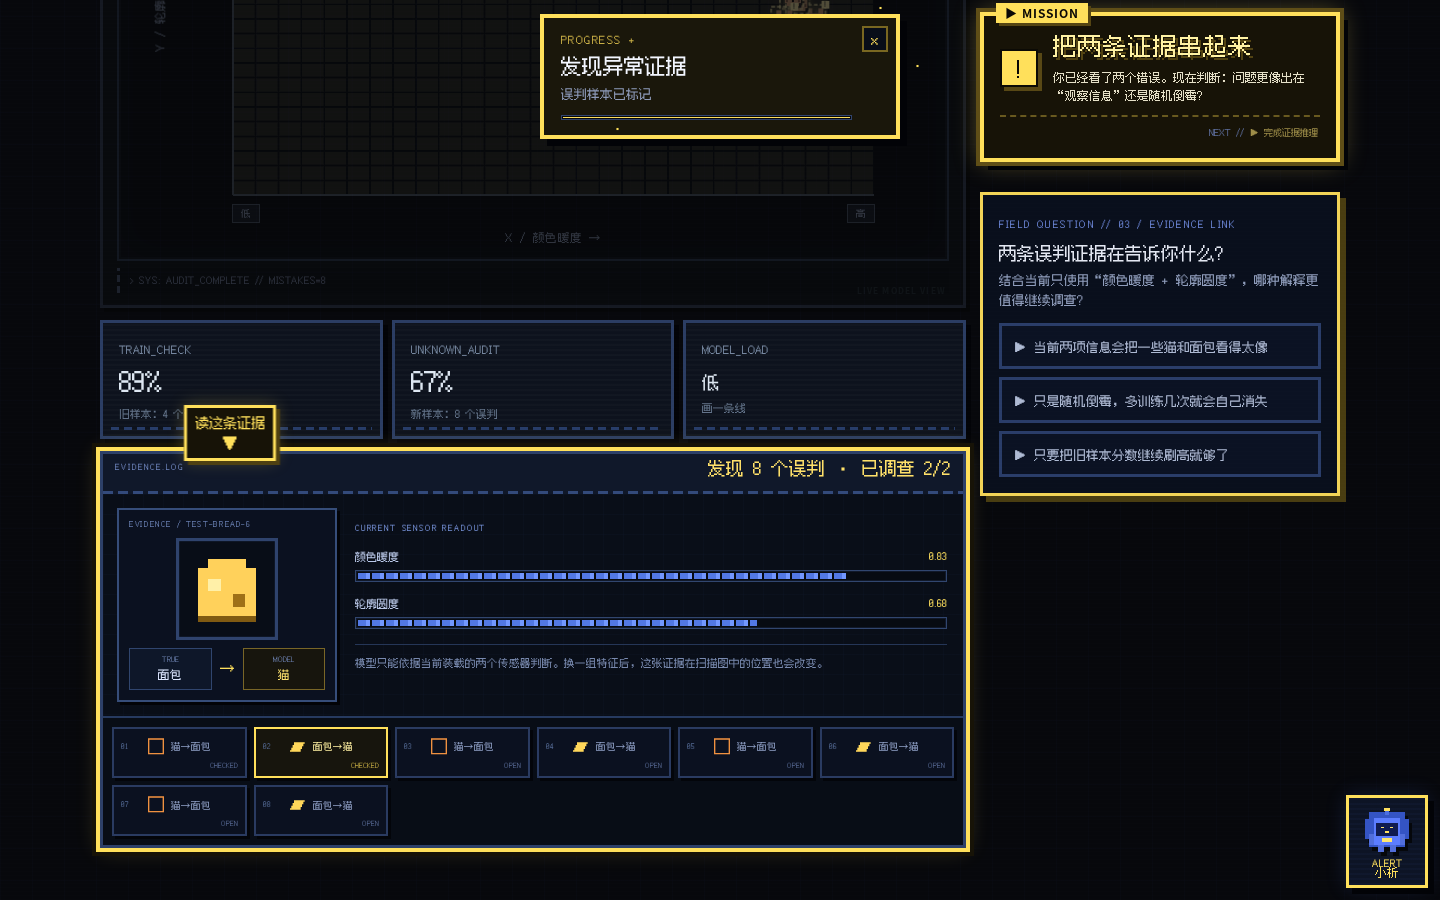
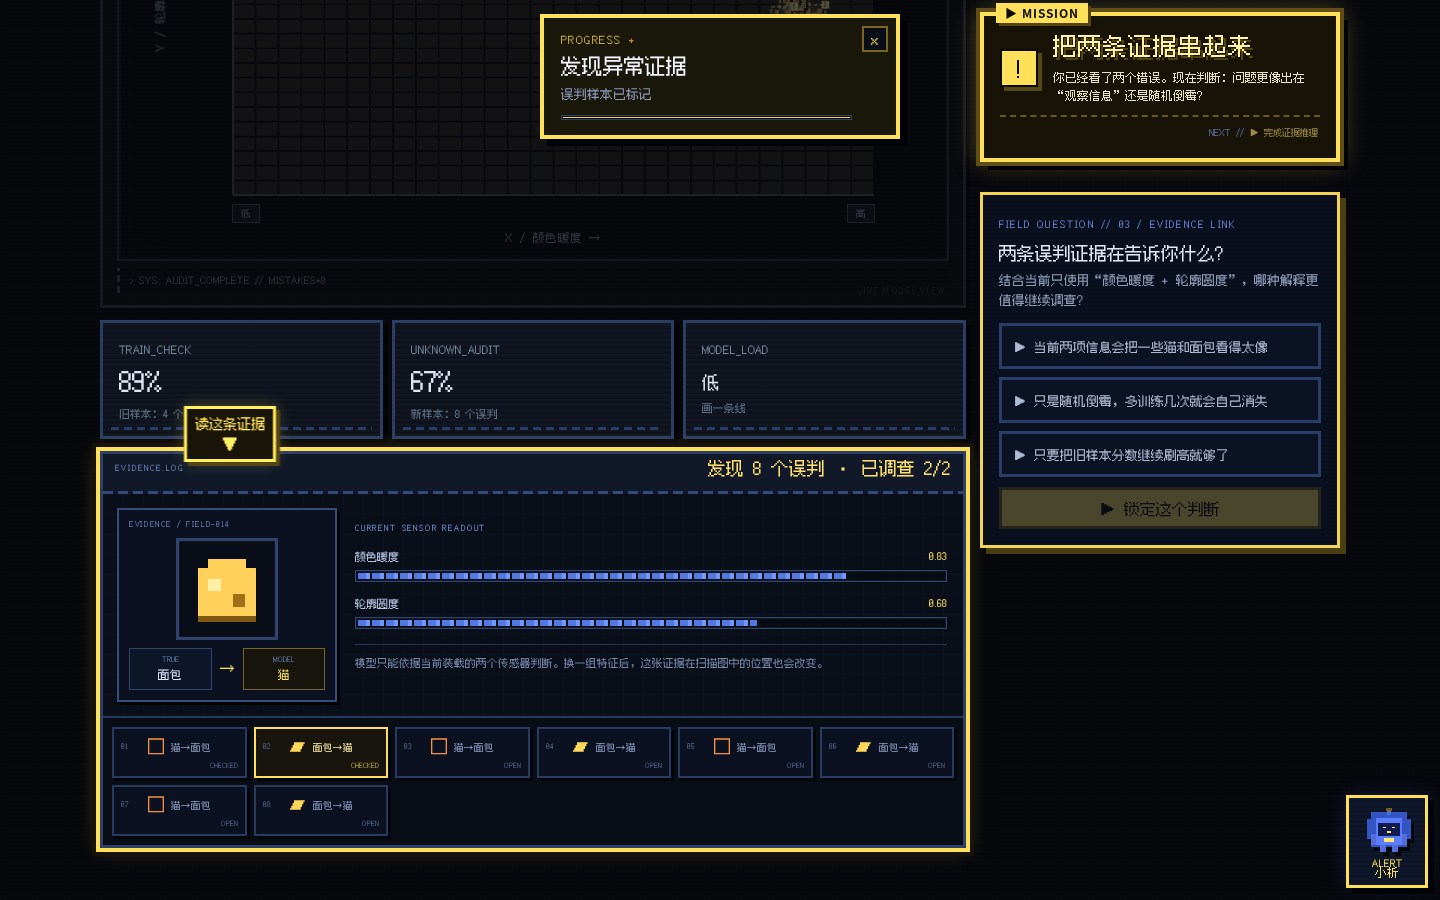
docs: document story and endless investigation modes

diff --git a/docs/VALIDATION.md b/docs/VALIDATION.md
@@ -18,9 +18,9 @@ npm run test:e2e
 
 - ESLint：通过，0 warning / 0 error。
 - TypeScript strict typecheck：通过。
-- Vitest：4 个测试文件、20 个测试全部通过。
+- Vitest：7 个测试文件、28 个测试全部通过。
 - Vite production build：通过。
-- Playwright：2 条 Chromium E2E 通过（零基础玩家完整案件 + debug 工程模式）。
+- Playwright：5 条 Chromium E2E 通过（剧情完整案件、debug 工程模式、无尽证据路线、额度耗尽恢复路线、类别不平衡路线）。
 - GitHub Actions CI：通过；GitHub runner 已真实执行 lint、typecheck、unit tests、build、Chromium E2E。
 
 ## 固定 seed 教学指标
@@ -48,7 +48,7 @@ Vitest 当前覆盖：
 
 - 固定 seed 数据可复现。
 - train / test split 严格分离。
-- 普通模式不暴露隐藏测试标签。
+- 普通模式不暴露隐藏测试标签；public test 同时移除 flags，并使用 `field-001...` 中性 ID，避免从 DOM / DevTools 语义 ID 猜类别。
 - 线性分类器、深度 2 决策树、KNN k=1 / k=5 的真实计算。
 - 决策边界网格确定性。
 - 初始训练捷径在未知样本上真实失败。
@@ -58,29 +58,40 @@ Vitest 当前覆盖：
 - 普通模式拒绝 debug 跳关。
 - 六类开发者测试人格均在有限步骤内完成关卡，并经历过拟合与多次未知审计。
 - 教学任务、NPC 提示、模型 / 特征说明保持短文本约束。
+- 调查评级：错误上线、推理修正、预测偏差、额外审计和提示会降低评级；S 只保留给干净证据路线。
+- 无尽生成器：确定性、四类 syndrome、传感器通道重排、可解性与随机配置成功比例。
+- 类别不平衡：存在总体 Accuracy ≥90% 但最低类别 recall <75% 的真实假好方案，同时存在可靠解。
+- 自动玩法平衡：批量 seed 上 evidence-policy 必须显著优于 5 次 random-clicker。
 
 ## Playwright 浏览器 E2E
 
-`e2e/happy-path.spec.ts` 当前包含两条真实 Chromium 路线。
+`e2e/happy-path.spec.ts` 当前包含五条真实 Chromium 路线。
 
 零基础玩家完整案件：
 
 1. 标题页点击“查看事故录像”。
 2. Cold Open 中亲手确认“这明明是一只猫”，看到 `CAT ≠ BREAD`，再接入调查终端。
-3. 在旧样本上完成一次肉眼分布判断。
+3. 在旧样本上完成一次肉眼分布判断，并直接在散点图里点出一个真实异常旧样本。
 4. 分别读取当前“颜色暖度 / 轮廓圆度”两个观察通道；此时完整特征工具箱仍隐藏。
 5. 亲手点击唯一开放的直线分类器并训练。
-6. 第一次成功后先留下“是否真的修好”的预测。
-7. 放入此前未参与训练的未知样本并看到真实失败。
-8. 调查两个不同黄色 `!`，读取 `EVIDENCE.LOG`，完成一次证据推理。
-9. 进入修复，故意装载 KNN k=1，训练并审计，触发真实训练 100% / 未知表现下降。
-10. 玩家先解释反常现象，之后才显示“过拟合 / Overfitting”。
-11. 返回修复时确认 PHASE 03 不重复播放，并读取新解锁的“表面纹理 / 长宽比例”两个备用观察通道。
-12. 重新开放完整特征 / 模型配置，切换到稳健特征 + 直线模型并重新训练 / 审计。
-13. 对照 `CASE_NOTES.LOG` 完成最终“为什么这次更可信”的判断。
-14. 回答迁移问题并进入 `CASE CLOSED`。
+6. 第一次训练后先读一个没有真值的 `PROBE ?`，只根据决策区域判断“模型会说什么”。
+7. 再锁定“89% 是否足以批准上线”的现实预测；E2E 故意选择错误的 89% 结论，验证游戏不会即时红叉，而会产生“临时放行 → 现场误判”的后果。
+8. 放入此前未参与训练的未知样本并看到真实失败。
+9. 调查两个不同黄色 `!`，读取 `EVIDENCE.LOG`，锁定一次证据推理。
+10. 进入修复，先留下实验预测，再故意装载 KNN k=1，训练并消耗正式审计额度，触发真实训练 100% / 未知表现下降。
+11. 从可点击 `CASE_NOTES.LOG` 中亲手指出反常实验，之后才解释原因并显示“过拟合 / Overfitting”。
+12. 返回修复时确认 PHASE 03 不重复播放，并读取新解锁的备用观察通道。
+13. 重新开放完整特征 / 模型配置；改方案后必须重新留下实验预测，再训练 / 审计。
+14. 对照 `CASE_NOTES.LOG` 完成最终“为什么这次更可信”的判断。
+15. 迁移问题同样采用“草稿 → 锁定 → 反馈”，避免通过提交按钮亮灭探答案；随后进入 `CASE CLOSED` 并显示调查评级。
 
 工程模式路线会直接打开 `?debug=1`，验证 DebugPanel、阶段跳转和快速主操作仍可用，不受普通玩家 micro-beat 门槛影响。
+
+无尽证据路线用程序化案件验证：5 次正式审计预算、先预测再审计、错误诊断后不能立刻轮流试答案、必须新增一次审计才可改口、正确诊断后生成下一案。
+
+额度恢复路线会连续耗尽 5 次正式未知审计，确认额外审计入口出现、恢复 1 次可执行额度，并且这类补救会进入结案评级扣分；有限预算因此制造决策成本，但不会造成不可恢复死局。
+
+类别不平衡路线验证：一个方案可达到约 90%+ 总体准确率，但少数类召回只有约 50%，UI 必须明确拒绝“可靠”结案；换到稳健方案后两类召回恢复，再提交 `class-imbalance` 诊断。
 
 E2E 使用 Playwright 的真实可操作性检查；如果 overlay、NPC、tooltip 或 SVG 层拦截点击，测试会直接失败。
 
@@ -88,6 +99,19 @@ E2E 使用 Playwright 的真实可操作性检查；如果 overlay、NPC、toolt
 
 - SVG 决策背景可能抢走误判样本点击；现已让背景层不接收 pointer event，并给误判标记增加 26×26 点击热区。较大的 36×36 热区在密集区域会互相抢点击，因此真实 E2E 后进一步缩小。
 - 1440×900 下折叠小析仍可能轻微覆盖模型工具盒；现已进一步贴右侧安全区，E2E 明确断言二者不重叠。
+
+## 自动玩法平衡
+
+无尽模式不是只测试“有没有解”，还测试“思考是否真的有收益”。当前批量基线使用 90 个程序化 seed，每个案件运行 24 次 5-audit random-clicker：
+
+- evidence-policy 结案率约 **98.9%**；
+- random-clicker 结案率约 **15.7%**；
+- evidence-policy 平均最佳未知表现约 **99.0%**；
+- random-clicker 平均最佳未知表现约 **88.5%**。
+
+Evidence policy 只读取玩家同样可见的训练标签几何与**无标签**现场分布变化，不读取隐藏 syndrome/test label。测试硬门槛要求 evidence solve rate ≥90%、random solve rate <30%、二者结案率差 >60 个百分点，并要求未知表现存在显著差距。
+
+这些指标不是“游戏一定好玩”的证明，只是防止程序化案件退化成“随便试五次和推理差不多”。
 
 ## Headless Chromium 人工视觉路线
 
@@ -116,7 +140,9 @@ Windows 真机截图仍作为最终美术判断基准；headless Chromium 主要
 
 - `hero.png`：Cold Open 中小析正式给出案件目标。
 - `misclassification.png`：两条未知误判证据与现场推理。
-- `demo.gif`：标题 → 事故录像 → 案件目标 → 旧样本观察 → 第一次成功 → 两条证据 → 过拟合 → 备用传感器 → 最终修复的短演示。
+- `endless.png`：监督学习无尽模式的首次正式审计。
+- `imbalance.png`：总体高分但少数类召回失败的类别不平衡陷阱。
+- `demo.gif`：标题 → 事故录像 → 案件目标 → 旧样本观察 → 决策探针 → 两条证据 → 过拟合 → 备用传感器 → 最终修复的短演示。
 
 素材不是设计稿或伪造界面，均来自当前 V1 的真实运行状态。
 
@@ -132,7 +158,7 @@ Windows 真机截图仍作为最终美术判断基准；headless Chromium 主要
 6. 安装 Chromium
 7. `npm run test:e2e`
 
-2026-08-09 对沉浸式第一关提交 `88153b3` 的 GitHub Actions 运行结果为 `success`，上述步骤全部通过；同一提交的 `Deploy Pages` 也为 `success`。
+本轮证据驱动剧情与无尽模式的本地完整验证已通过；最终提交 push 后会再次以 GitHub Actions / Pages 和生产 URL E2E 作为发布验收，不用本地结果代替远端结果。
 
 ## GitHub Pages 部署状态
 
@@ -176,7 +202,8 @@ Windows 真机截图仍作为最终美术判断基准；headless Chromium 主要
 
 ## 尚未覆盖的风险
 
-- 已获得至少一轮真实零基础新生定性反馈，并据此重做第一分钟与交互可发现性；尚未完成 5～8 人规模的系统可用性测试。
+- 已获得至少一轮真实零基础新生定性反馈，并据此重做第一分钟、交互可发现性与核心实验循环；尚未完成 5～8 人规模的系统可用性测试。
+- **剧情模式 20～30 分钟仍只是设计目标。** 当前没有足够真人计时数据证明已经达到；自动 E2E 会快速操作，不能用于估算真实游玩时间。
 - Playwright 当前只覆盖 Chromium + 桌面 viewport，不做浏览器 matrix。
 - 没有建立大规模视觉 snapshot 回归；视觉仍以真实截图人工检查为主。
 - GitHub Pages 已上线；当前没有针对 CDN 缓存传播延迟的专项测试。

diff --git a/docs/PRODUCT_DESIGN.md b/docs/PRODUCT_DESIGN.md
@@ -1,7 +1,7 @@
 # 《AI异常调查局：失控的分类器》产品设计
 
 ## 一句话定位
-一款让零基础大学新生通过“调查橘猫被识别成面包”的事故，在约 20～30 分钟的首次认真游玩中亲手经历数据、特征、模型、测试集与过拟合的浏览器机器学习入门游戏。
+一款让零基础大学新生通过“调查橘猫被识别成面包”的事故，亲手经历数据、特征、模型、测试集与过拟合的浏览器机器学习调查游戏。**20～30 分钟是当前剧情模式的设计目标，不是已经由真人计时验证的结果。**
 
 ## 玩家画像
 - 大一新生；可能完全没学过机器学习、线性代数、概率论和 Python。
@@ -26,8 +26,10 @@
 ### 阶段 1：第一次成功（约 5～7 分钟）
 - 身份：现场调查员 → 传感器调查员 → 模型工程师。
 - 工作台采用 progressive disclosure：还没用到的模型、特征工具直接隐藏，而不是全部同时变灰摆在屏幕上。
-- 玩家先肉眼判断旧样本是否形成两团，再分别读取“颜色暖度 / 轮廓圆度”两个当前观察通道，理解机器人并没有像人一样直接看懂图片。
-- 玩家亲手装载唯一开放的直线分类器并训练；训练表现高后，必须先留下“它是否真的修好”的预测，之后才开放未知样本验证。
+- 玩家先肉眼判断旧样本是否形成两团，随后必须直接在散点图上抓出一个“站进对面阵营”的异常旧样本；散点图是可操作棋盘而不是背景图。
+- 分别读取“颜色暖度 / 轮廓圆度”两个当前观察通道，理解机器人并没有像人一样直接看懂图片。
+- 玩家亲手装载唯一开放的直线分类器并训练；训练后先读取一个没有真值的 `PROBE ?`，判断模型会把它放到哪一侧，明确“模型会说什么”与“真实答案是什么”不是同一问题。
+- 之后才留下“它是否真的修好”的现实预测，再开放未知样本验证。
 - 此时仍不提前解释训练集、测试集、泛化、过拟合等术语。
 
 ### 阶段 2：意外失败（约 6～8 分钟）
@@ -35,6 +37,7 @@
 - 首次揭示一批此前不可见的未知样本；其中包含不同光照下橘猫和长条面包。
 - 玩家看到训练表现仍高，但未知数据错误明显增多。
 - 玩家必须调查两个不同误判样本，再回答“它们共同暴露了什么”，形成最小证据链，而不是点一下就过关。
+- 如果玩家在第一次训练后选择“89% 已经证明修好了”，游戏不会立刻弹红叉，而会真的记录一次临时放行，并用后续现场误判把错误理论变成案件证据。
 - 小析随后命名此前看到的是“训练集”、新样本是“测试集”；玩家先通过证据意识到当前观察信息存在盲区。
 - 只有完成证据推理后才进入修复。
 
@@ -42,12 +45,34 @@
 - 解锁决策树与 KNN。
 - KNN 的 `k=1` 作为“几乎记住训练数据”的复杂方案：训练表现可接近 100%，但噪声与异常点导致隐藏测试表现下降、边界破碎。
 - 第一次修复先要求玩家故意做一次 `k=1` 极端实验；看到训练 100% / 未知样本下降后，玩家必须自己选出最合理解释，之后才正式揭示“过拟合”。
-- 每次未知审计会写入 `CASE_NOTES.LOG`，让玩家比较旧样本表现、新样本表现、特征与模型，而不是凭记忆乱试。
+- 修复阶段使用有限正式审计预算；训练免费，但未知审计消耗额度。改特征 / 模型后必须重新留下实验前预测，鼓励“我要验证什么”而不是穷举。
+- 每次未知审计会写入 `CASE_NOTES.LOG`，同时记录预测是否命中。过拟合出现后，玩家必须先从记录里亲手指出“旧分更高、未知反而更差”的那次实验，之后才能解释原因。
 - 过拟合后技术组解锁“表面纹理 / 长宽比例”两个备用观察通道；玩家先读完两个模块，再重新开放特征/模型配置。
 - 至少两条合理通关路径：
   1. 使用更稳健特征 + 线性分类器；
   2. 使用更稳健特征 + 简单决策树或较平滑的 KNN（k=5）。
 - 通关后才正式揭示“过拟合”一词。
+
+## 核心实验循环
+剧情关卡与无尽模式共享同一条认知循环：
+
+`观察证据 → 提出假设 → 锁定预测 → 做实验 → 查看未知结果 → 解释偏差 → 修改假设`
+
+难度来自证据不完整、实验预算和多种合理候选，而不是来自晦涩术语。关键判断都采用“先选草稿 → 明确锁定 → 才反馈”的方式；答错允许继续修正，但会留下推理修正记录并影响调查评级。
+
+## 监督学习无尽模式
+V1 不扩第二个手工剧情关卡，而是增加可重复的 `Supervised Investigation`：
+
+- 每个 seed 程序化生成一个单人分类案件。
+- 当前四类真实故障：**特征不足、训练噪声 / 过拟合、分布漂移、类别不平衡**。
+- 每类故障有多组案件语境；四个传感器通道会随 seed 重排，不能背“永远点后两个”。
+- 玩家能看到训练标签、无标签现场特征分布，以及每个传感器的“旧样本差异 / 现场变化”证据，但看不到现场真值。
+- 训练不耗预算；正式未知审计初始只有 5 次。每次审计前必须预测未知表现。
+- 结案要求找到可靠方案并提交病因；诊断答错后必须获得一条新的正式审计证据，不能把四个答案轮流点击。
+- 可靠方案不只看 Accuracy：**总体未知准确率 ≥85%，且两个类别召回都 ≥75%**，因此类别不平衡案件会故意出现“总体 93% 但少数类召回 50%”的假好成绩。
+- 案件结束按实验次数、预测命中、额外额度等给调查评级；评级奖励证据驱动的少量实验，而不是训练集最高分。
+
+自动玩法平衡把无尽案件同时交给 evidence-policy 与 random-clicker。当前硬门槛要求：证据策略高成功、5 次随机穷举低成功，并保持显著差距；生成器退化成“乱点也能过”时单测直接失败。
 
 ## 状态机
 `briefing → inspect_data → choose_features → choose_model → train → first_success → hidden_test → inspect_errors → iterate → overfit_reveal → final_audit → transfer_question → complete`
@@ -55,7 +80,10 @@
 关键守卫：
 - 未选择至少 2 个特征不能训练。
 - 未训练不能进入测试。
-- 阶段 2 首次测试后，必须查看至少 2 个不同错误样本才能进入下一步。
+- 阶段 1 必须在散点图上找出一个真实异常旧样本，并读懂一次模型决策边界探针。
+- 阶段 2 首次测试后，必须查看至少 2 个不同错误样本并完成证据推理才能进入下一步。
+- 修复阶段正式未知审计有有限额度；额度耗尽可申请额外审计，但影响评级，不造成死局。
+- 过拟合揭示前必须从 `CASE_NOTES.LOG` 选中真正反常的一次实验。
 - 最终成功要求隐藏测试准确率 ≥ 0.84，且关键橘猫子集错误 ≤ 1。
 - “训练集 100%”本身永远不是成功条件。
 
@@ -95,7 +123,7 @@
 移动端改为纵向：任务 → 图 → 操作 → 结果 → 小析。
 
 ## 第一版范围
-必须完成：一个完整单人关卡、三类真实模型、四项语义特征、固定种子数据、SVG 决策边界、训练/测试对比、错误样本、分级提示、迁移问题、debug 面板、六类自动路线、行为日志导出、自动测试、CI。
+必须完成：一个完整单人剧情关卡、监督学习无尽模式、三类真实模型、四项语义特征、固定种子数据、SVG 决策边界、训练/测试对比、错误样本、实验预算、调查评级、分级提示、迁移问题、debug 面板、自动人格 / 平衡路线、行为日志导出、自动测试、CI。
 
 明确不做：联网、多账号、多人协作、排行榜、养成、商店、语音、大模型 API、神经网络训练、大地图、多关卡内容。
 
